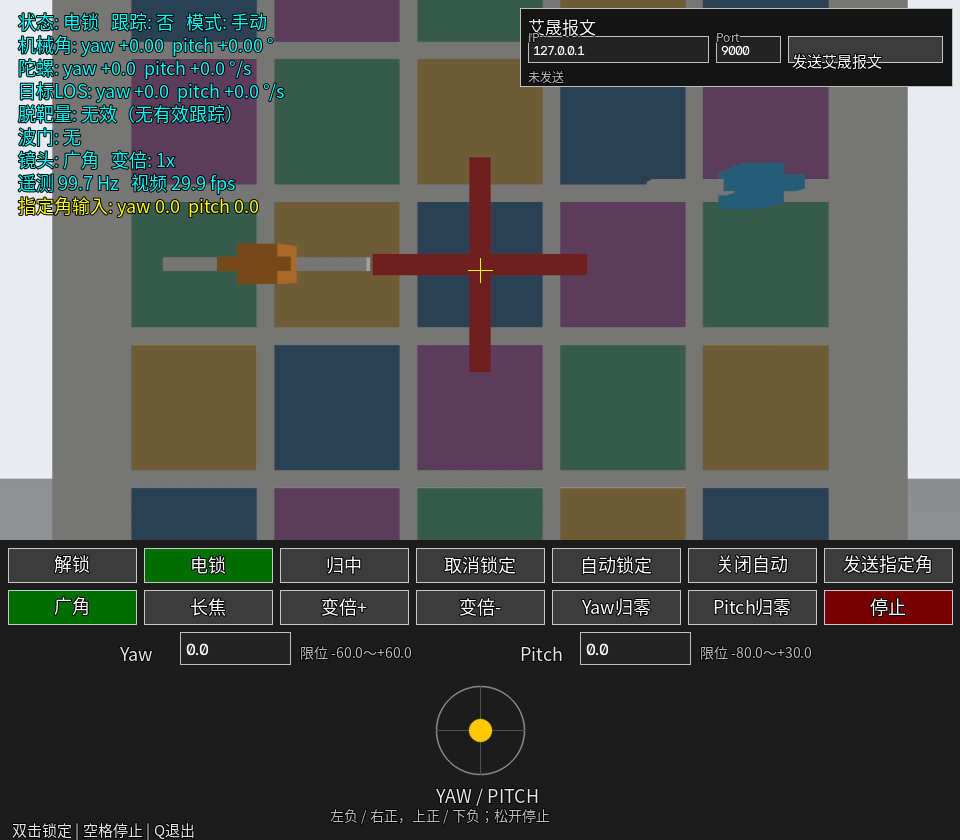
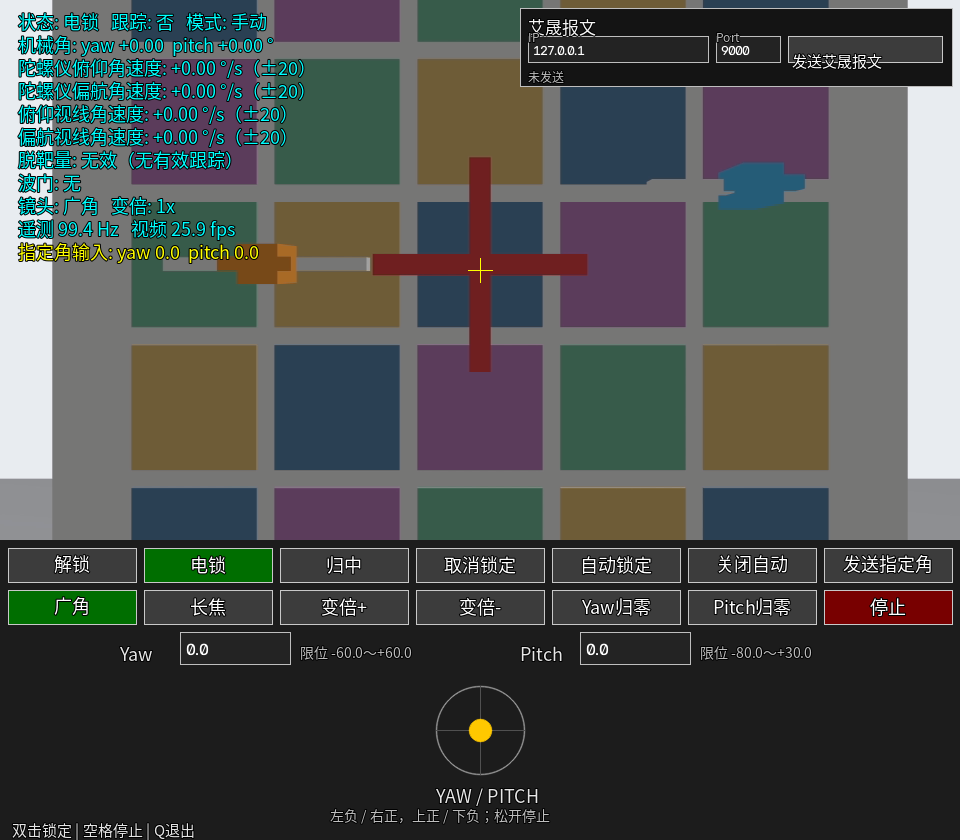
导引头上位机增加四路角速度分行显示
陀螺仪俯仰/偏航角速度和俯仰/偏航视线角速度按协议字段分行显示，单位°/s并标注±20限幅；同步更新界面截图和协议说明。

Changed region(s): [[0.0, 0.0619, 0.3125, 0.3095]]

diff --git a/models/gimbals/aisheng-ASD-2-075-DD0/ground_station/main.py b/models/gimbals/aisheng-ASD-2-075-DD0/ground_station/main.py
@@ -911,8 +911,10 @@ class GCS:
                     f"状态: {servo_text}   跟踪: {'是' if tracking else '否'}   "
                     f"模式: {'自动' if frame.autonomous else '手动'}",
                     f"机械角: yaw {frame.yaw_deg:+.2f}  pitch {frame.pitch_deg:+.2f} °",
-                    f"陀螺: yaw {frame.gyro_yaw_dps:+.1f}  pitch {frame.gyro_pitch_dps:+.1f} °/s",
-                    f"目标LOS: yaw {frame.yaw_los_dps:+.1f}  pitch {frame.pitch_los_dps:+.1f} °/s",
+                    f"陀螺仪俯仰角速度: {frame.gyro_pitch_dps:+.2f} °/s（±20）",
+                    f"陀螺仪偏航角速度: {frame.gyro_yaw_dps:+.2f} °/s（±20）",
+                    f"俯仰视线角速度: {frame.pitch_los_dps:+.2f} °/s（±20）",
+                    f"偏航视线角速度: {frame.yaw_los_dps:+.2f} °/s（±20）",
                     miss_text,
                     gate_text,
                     f"镜头: {lens_cn}   变倍: {zoom}x",
@@ -928,8 +930,10 @@ class GCS:
                     f"STATE {servo_text}  TRACK {tracking}  "
                     f"{'AUTO' if frame.autonomous else 'MANUAL'}",
                     f"ANGLE yaw {frame.yaw_deg:+.2f} pitch {frame.pitch_deg:+.2f} deg",
-                    f"GYRO yaw {frame.gyro_yaw_dps:+.1f} pitch {frame.gyro_pitch_dps:+.1f} dps",
-                    f"LOS yaw {frame.yaw_los_dps:+.1f} pitch {frame.pitch_los_dps:+.1f} dps",
+                    f"GYRO PITCH RATE {frame.gyro_pitch_dps:+.2f} dps (+-20)",
+                    f"GYRO YAW RATE {frame.gyro_yaw_dps:+.2f} dps (+-20)",
+                    f"LOS PITCH RATE {frame.pitch_los_dps:+.2f} dps (+-20)",
+                    f"LOS YAW RATE {frame.yaw_los_dps:+.2f} dps (+-20)",
                     miss_text,
                     gate_text,
                     f"LENS {lens_cn} ZOOM {zoom}x",

diff --git a/models/gimbals/aisheng-ASD-2-075-DD0/README.md b/models/gimbals/aisheng-ASD-2-075-DD0/README.md
@@ -68,7 +68,7 @@ los_mount = (-sin(pitch), -sin(yaw)cos(pitch), cos(yaw)cos(pitch))
 
 ## 标准二进制 UDP 与视频
 
-网关 `gateway/main.py` 在 Gazebo 插件 JSON 话题和标准二进制 UDP 之间转换：
+网关 `gateway/main.py` 在 Gazebo 插件 JSON 话题和标准二进制 UDP 之间转换。上位机控制导引头使用《无人机到导引头控制协议》的 45 字节控制帧，经 UDP 发到网关；网关再转换为插件内部 JSON。上位机不直接写插件 JSON，遥测也按 104 字节标准帧回传。
 
 | 项目 | 默认值 |
 |---|---|
@@ -141,6 +141,7 @@ bash models/gimbals/aisheng-ASD-2-075-DD0/tests/run_los25.sh
 - 底部按钮：`解锁`、`电锁`、`归中`、`取消锁定`、`自动锁定`、`关闭自动`、`发送指定角`、`广角`、`长焦`、`变倍+`、`变倍-`、`Yaw归零`、`Pitch归零`、`停止`；
 - 底部虚拟摇杆：左负 yaw、右正 yaw，上正 pitch、下负 pitch，每轴最大 20°/s，松开鼠标停止；键盘 `W/A/S/D` 或方向键为 60°/s 点动；
 - 双击视频画面：若当前电锁，先自动解锁；点击附近有目标时精确点选，附近没有目标时锁定画面内最近目标；
+- 视频左上角分行显示四个角速度：陀螺仪俯仰/偏航角速度、俯仰/偏航视线角速度，单位 °/s，显示值按协议限幅 ±20°/s；
 - 快捷键：`U` 解锁，`L` 电锁，`R`/`H` 归中，`C` 取消锁定，`O` 自动锁定，`P` 关闭自动锁定，`1` 广角，`2` 长焦，`Z` 变倍+，`Shift+Z` 变倍-，空格停止，`Q` 或 Esc 退出；
 - 底部 `Yaw`/`Pitch` 输入框设置指定框架角，旁边显示限位 `−60.0～+60.0`、`−80.0～+30.0`；点击 `发送指定角` 才下发。输入框支持 `Enter` 发送、`Tab` 切换、`Esc` 取消。
 - `Yaw归零`/`Pitch归零` 只把对应轴置零，另一轴保持当前机械角；电锁状态下会先自动解锁。
